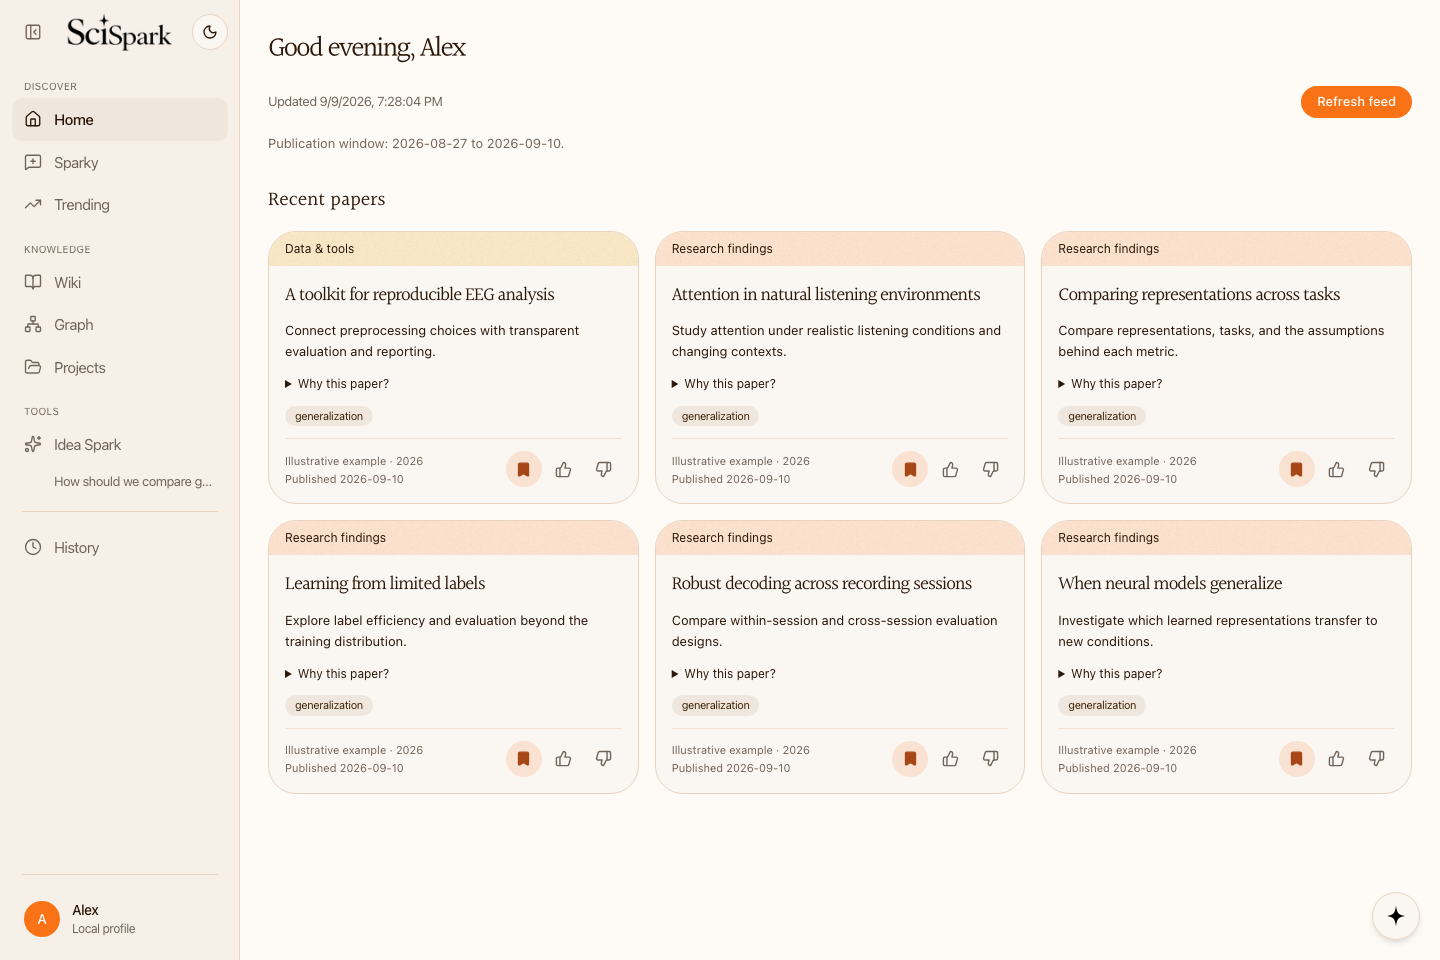
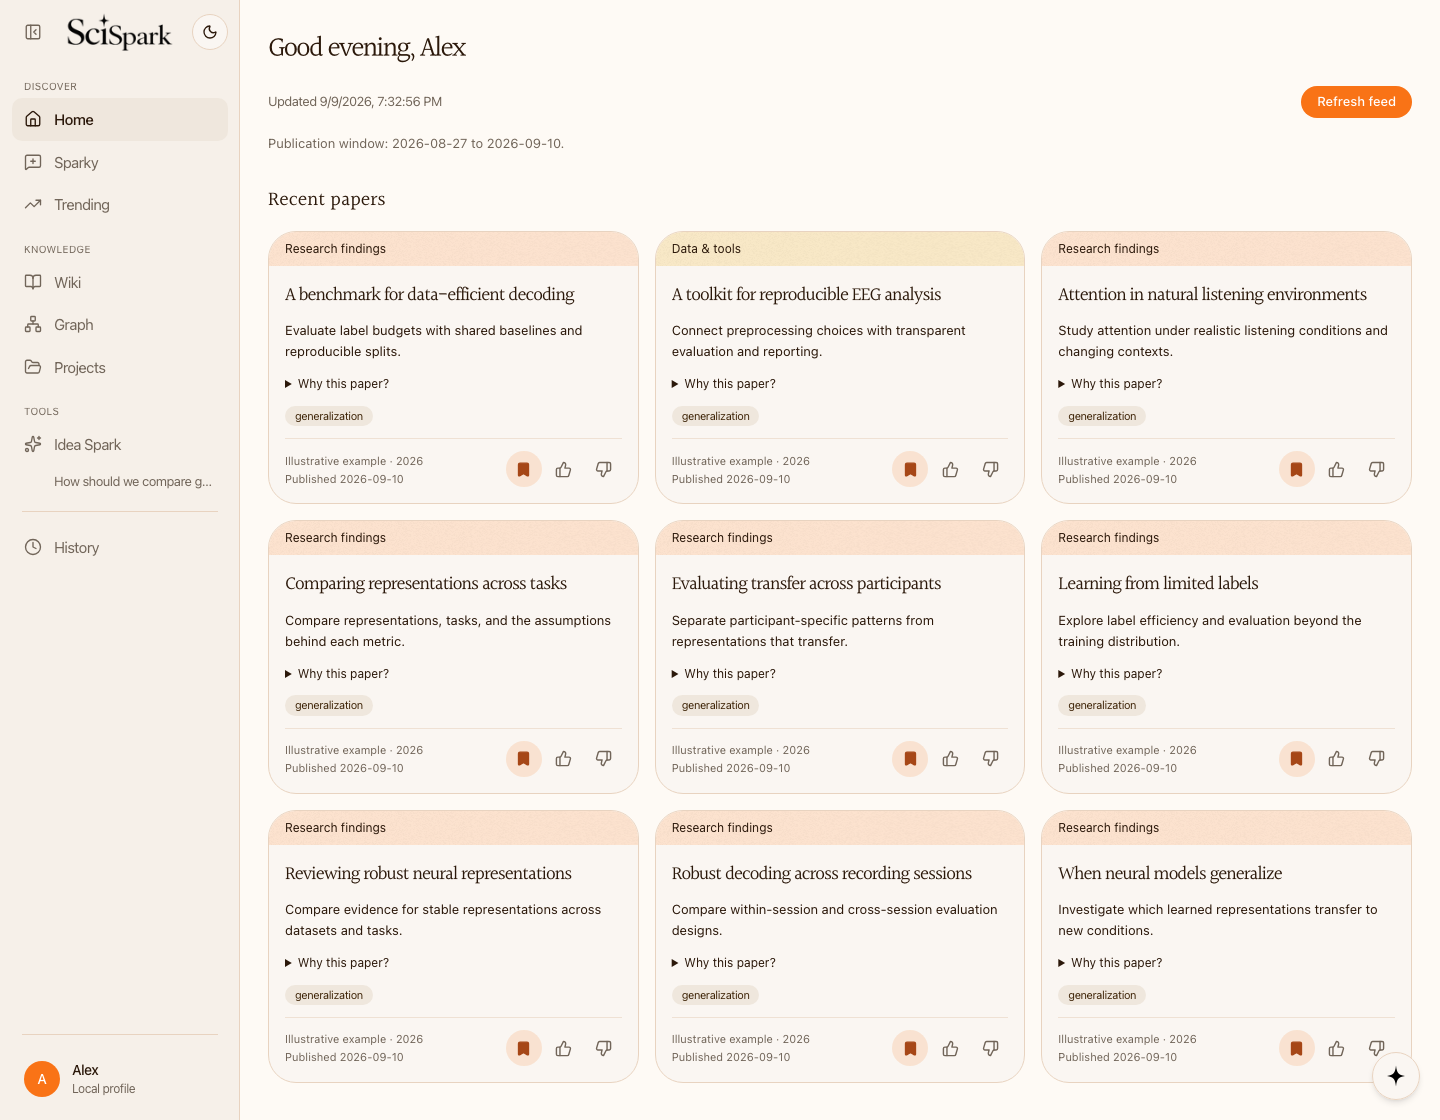
docs: fill desktop preview with nine paper cards

diff --git a/e2e/readme-showcase.spec.ts b/e2e/readme-showcase.spec.ts
@@ -35,11 +35,14 @@ test("capture README product showcase with illustrative data", async ({ page, re
   await storage.delete("wiki/papers/e2e-grounding-paper.md")
   const today = new Date().toISOString().slice(0, 10)
   const titles = ["Learning from limited labels", "Robust decoding across recording sessions", "When neural models generalize",
-    "A toolkit for reproducible EEG analysis", "Comparing representations across tasks", "Attention in natural listening environments"]
+    "A toolkit for reproducible EEG analysis", "Comparing representations across tasks", "Attention in natural listening environments",
+    "Evaluating transfer across participants", "A benchmark for data-efficient decoding", "Reviewing robust neural representations"]
   const papers: PaperRecord[] = titles.map((title, i) => ({ ids: {}, title,
     abstract: ["Explore label efficiency and evaluation beyond the training distribution.", "Compare within-session and cross-session evaluation designs.",
       "Investigate which learned representations transfer to new conditions.", "Connect preprocessing choices with transparent evaluation and reporting.",
-      "Compare representations, tasks, and the assumptions behind each metric.", "Study attention under realistic listening conditions and changing contexts."][i],
+      "Compare representations, tasks, and the assumptions behind each metric.", "Study attention under realistic listening conditions and changing contexts.",
+      "Separate participant-specific patterns from representations that transfer.", "Evaluate label budgets with shared baselines and reproducible splits.",
+      "Compare evidence for stable representations across datasets and tasks."][i],
     authors: [{ name: "Example Research Group" }], year: Number(today.slice(0, 4)), date: today,
     venue: "Illustrative example", source: "openalex", fields: [i % 2 ? "Neuroscience" : "Machine learning"],
     publicationTypes: [i === 3 ? "dataset" : "article"] }))
@@ -53,9 +56,9 @@ test("capture README product showcase with illustrative data", async ({ page, re
   const methods = ["Cross-validation", "Contrastive learning", "Neural decoding", "Ablation studies"]
   for (const [i, paper] of papers.entries()) {
     const draft = buildPaperPage(paper, { today, status: "ingested", sources: ["demo:illustrative-workspace"] })
-    draft.frontmatter.related = [slugifyTitle(concepts[i]), slugifyTitle(methods[i % methods.length])]
+    draft.frontmatter.related = [slugifyTitle(concepts[i % concepts.length]), slugifyTitle(methods[i % methods.length])]
     draft.frontmatter.tags = ["example-workspace", "methods"]
-    draft.body += `\n## Research connections\n\nConnects [[${slugifyTitle(concepts[i])}]] with [[${slugifyTitle(methods[i % methods.length])}]].\n\n> Illustrative content for the product walkthrough; this is not a real publication.\n`
+    draft.body += `\n## Research connections\n\nConnects [[${slugifyTitle(concepts[i % concepts.length])}]] with [[${slugifyTitle(methods[i % methods.length])}]].\n\n> Illustrative content for the product walkthrough; this is not a real publication.\n`
     await storage.write(draft.path, composePage(draft))
   }
   for (const [i, title] of [...concepts, ...methods].entries()) {
@@ -105,20 +108,24 @@ test("capture README product showcase with illustrative data", async ({ page, re
     await page.evaluate(() => document.fonts.ready)
     await page.screenshot({ path: resolve(output, `${name}.png`), animations: "disabled" })
   }
+  await page.setViewportSize({ width: 1440, height: 1120 })
   await page.goto("/")
-  await expect(page.getByRole("heading", { name: titles[0], exact: true })).toBeVisible()
+  for (const title of titles) await expect(page.getByRole("heading", { name: title, exact: true })).toBeInViewport()
   await capture("feed")
   await page.getByRole("button", { name: "Open Sparky chat", exact: true }).click()
   await expect(page.getByRole("heading", { name: "What are you exploring?", exact: true })).toBeVisible()
   await capture("quick-chat")
+  await page.setViewportSize({ width: 1440, height: 960 })
   await page.goto("/chat")
   await expect(page.getByRole("heading", { name: "What would you like to explore?", exact: true })).toBeVisible()
   await capture("sparky")
+  await page.setViewportSize({ width: 1440, height: 1120 })
   await request.put("/api/settings", { data: { ui: { theme: "dark" } } })
   await page.goto("/")
   await expect(page.getByRole("heading", { name: titles[0], exact: true })).toBeVisible()
   await expect(page.locator("html")).toHaveAttribute("data-theme", "dark")
   await capture("feed-dark")
+  await page.setViewportSize({ width: 1440, height: 960 })
   await request.put("/api/settings", { data: { ui: { theme: "light" } } })
   await page.goto("/wiki/concepts/generalization")
   await expect(page.getByRole("heading", { name: "Generalization", exact: true }).first()).toBeVisible()

diff --git a/docs/assets/readme/README.md b/docs/assets/readme/README.md
@@ -5,7 +5,7 @@ fresh, disposable vault. They demonstrate the interface, not scientific results.
 
 ## Provenance
 
-- Captured September 9, 2026, with Chromium at **1440 × 960**, light and dark themes and
+- Captured September 9, 2026, with Chromium at **1440 × 960**, with **1440 × 1120** for the nine-card Feed and floating chat views, light and dark themes and
   reduced motion, against application source at commit `908fa7c`.
 - All paper records, research notes, project content, ideas, relevance assessments,
   and review text are fixtures. No private research vault was used.
@@ -23,7 +23,7 @@ fresh, disposable vault. They demonstrate the interface, not scientific results.
 | [sparky.png](sparky.png) | Sparky start page with composer and research modes. |
 | [quick-chat.png](quick-chat.png) | Floating Sparky chat opened from the Feed. |
 | [feed-dark.png](feed-dark.png) | Feed in dark mode. |
-| [feed.png](feed.png) | Personalized Feed with six illustrative papers. |
+| [feed.png](feed.png) | Personalized Feed with nine illustrative papers. |
 | [deep-research.png](deep-research.png) | Sparky conversation and an example report. |
 | [wiki.png](wiki.png) | Rendered concept page with research questions and links. |
 | [graph.png](graph.png) | Knowledge graph derived from the example vault. |

diff --git a/README.md b/README.md
@@ -32,7 +32,7 @@ those starting points while your research stays organized in a local vault.
 
 **One workspace, from discovery to your next experiment.**
 
-<a href="docs/assets/readme/feed.png"><img src="docs/assets/readme/feed.png" alt="SciSpark Feed showing six illustrative research papers, ranking explanations, save actions, and feedback controls" width="100%"></a>
+<a href="docs/assets/readme/feed.png"><img src="docs/assets/readme/feed.png" alt="SciSpark Feed showing nine illustrative research papers, ranking explanations, save actions, and feedback controls" width="100%"></a>
 
 <sub>Real SciSpark screens captured in Chromium with an isolated example vault. Paper records, scores, notes, ideas, and report text are illustrative fixtures; these images are not live scientific results. No personal vault or paid model calls were used. <a href="docs/assets/readme/README.md">Capture details</a>.</sub>
 
